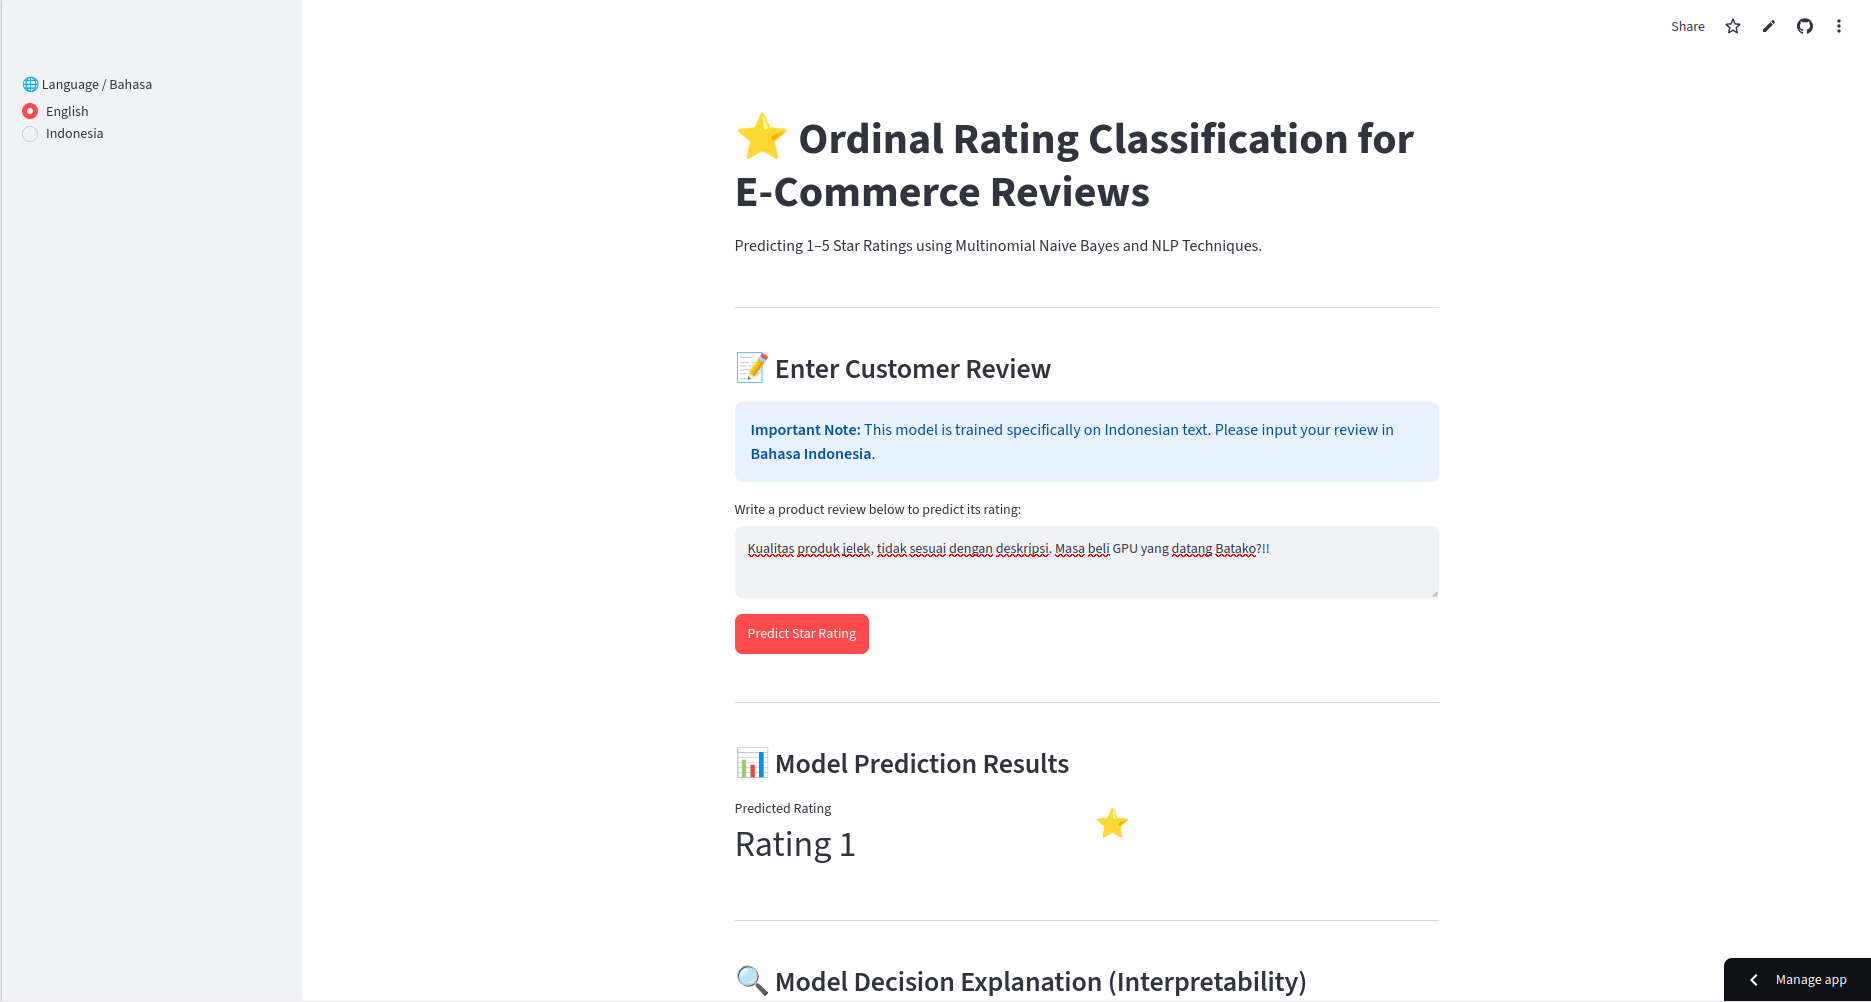
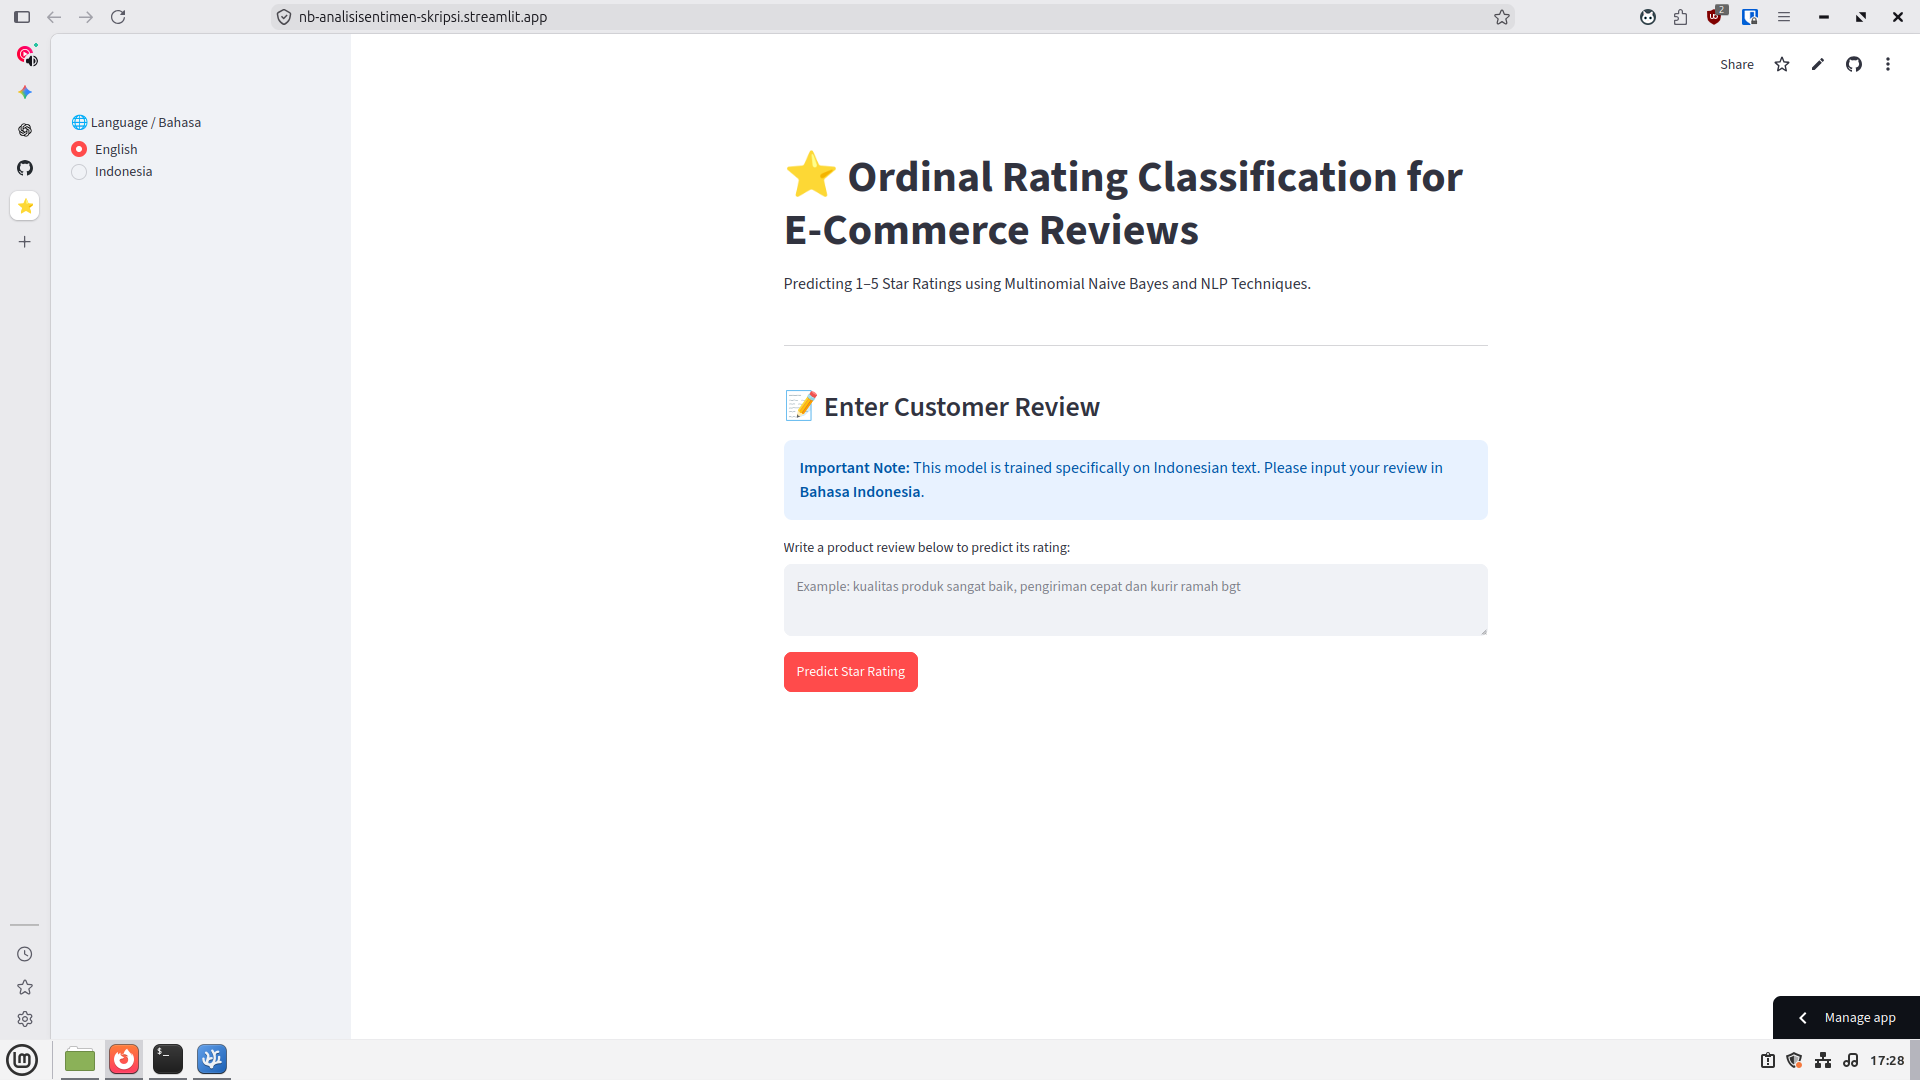
fix image path

diff --git a/README.md b/README.md
@@ -45,14 +45,14 @@ This project is built upon publicly available datasets and linguistic resources.
 - Source: Farhan
 - Original dataset containing **40,607** Indonesian product reviews collected from Tokopedia.
 - This research uses a cleaned subset consisting of **37,146 unique reviews** after preprocessing and duplicate removal.
-- Dataset: [https://www.kaggle.com/datasets/farhan999/tokopedia-product-reviews]
+- Dataset: [Tokopedia Product Reviews](https://www.kaggle.com/datasets/farhan999/tokopedia-product-reviews)
 
 ### Indonesian Slang Dictionary
 
 - Source: sodolanangbjkatio
 - Original public slang dictionary used as the baseline resource.
 - Extended with a manually curated custom dictionary to create the Hybrid Slang Dictionary used throughout this study.
-- Dataset: [https://www.kaggle.com/datasets/sodolanangbjkatio/slang-indonesia]
+- Dataset: [Indonesian Slang Dictionary](https://www.kaggle.com/datasets/sodolanangbjkatio/slang-indonesia)
 
 ---
 